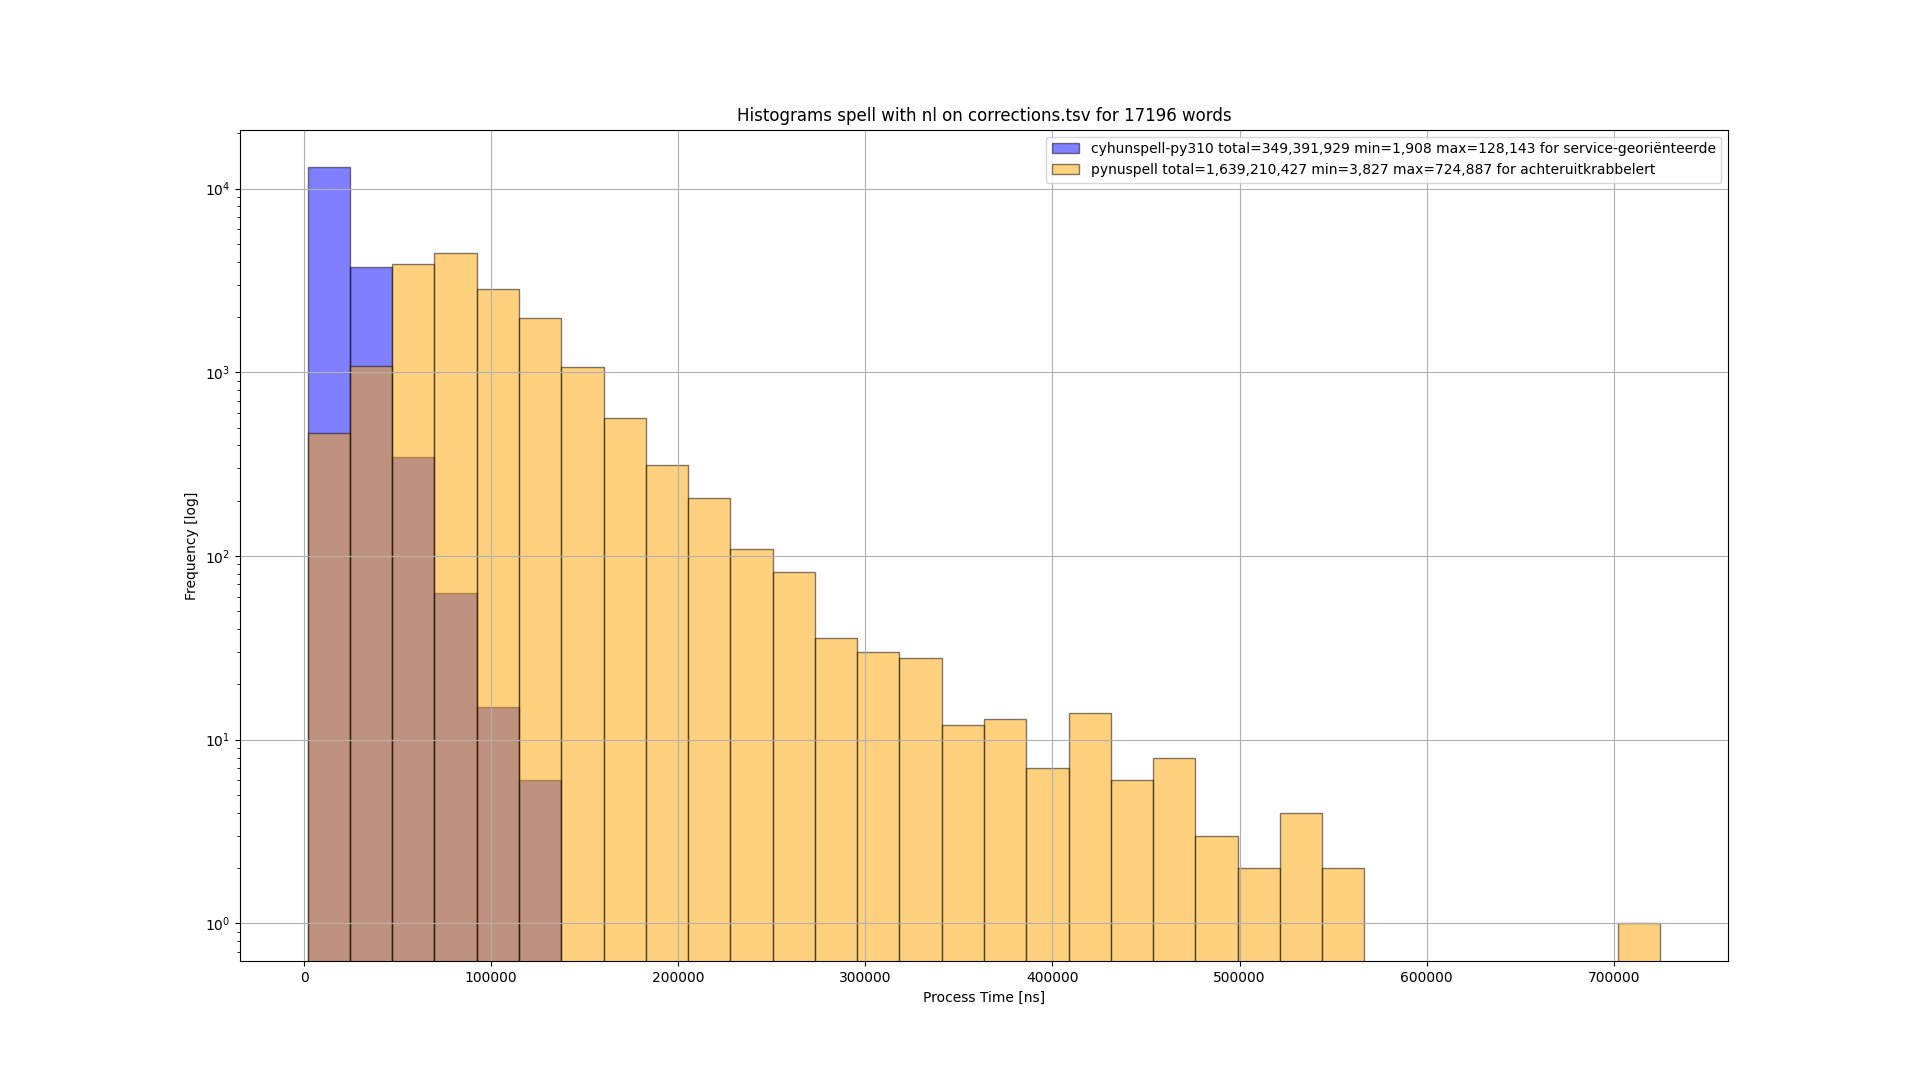
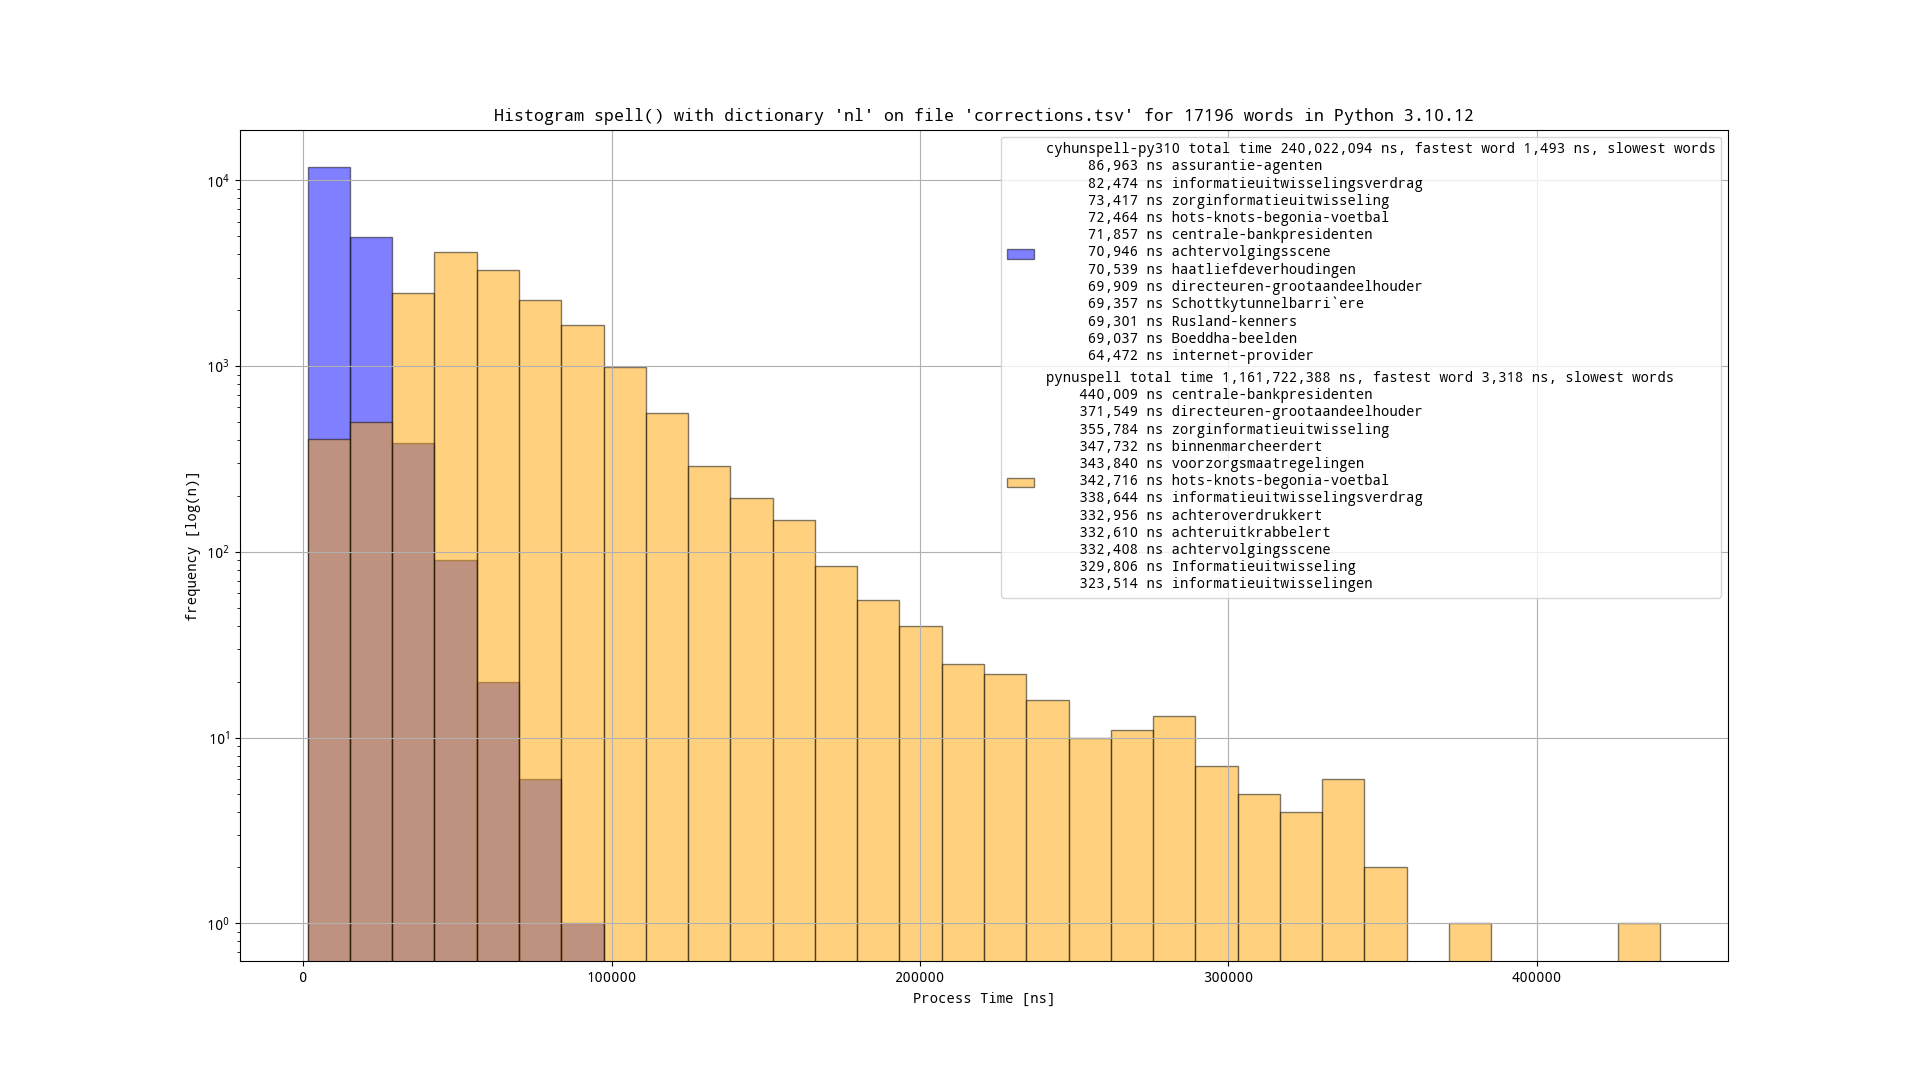
full run

diff --git a/compare.py b/compare.py
@@ -1,10 +1,14 @@
 #!/usr/bin/env python3
-"""Compare spelling checkers."""
+"""Compare spelling checker functionality and performance."""
 
+import heapq
+from platform import python_version
+import sys
 import time
 
 import pandas as pd
 import matplotlib.pyplot as plt
+from matplotlib.ticker import MaxNLocator
 
 from pynuspell import load_from_path
 from hunspell import Hunspell
@@ -12,11 +16,20 @@ from hunspell import Hunspell
 BASE_W: str = '/usr/share/dict/'
 BASE_H: str = '/usr/share/hunspell/'
 LISTS: dict = {
+    'de_DE_frami': 'ngerman',
     'en_US': 'american-english',
     'es_ES': 'spanish',
-    'de_DE': 'ngerman',
+    'fr': 'french',
     'nl': 'dutch',
 }
+plt.rcParams['font.family'] = 'monospace'
+plt.rcParams['font.monospace'] = 'Noto Mono'
+plt.rcParams['legend.loc'] = 'upper right'
+FIGSIZE = (19.20, 10.80)
+plt.figure(figsize=FIGSIZE)
+MAX_SUGGEST = 1000
+MAX_SUGGEST_NL = 1000
+TOPX = 12
 
 # pylint:disable=unspecified-encoding
 
@@ -30,43 +43,69 @@ def get_hunspell(code: str):
     """Get Hunspell."""
     if code == 'en_US':
         return Hunspell(code)
-    return Hunspell(code, hunspell_data_dir=BASE_H)  # TODO Create issue
+    return Hunspell(code, hunspell_data_dir=BASE_H)  # TODO Create issue.
 
 
 def histo(code: str, file: str, name_n: str, name_h: str, function: str,
           data: dict):
     """Plot histogram to PNG file."""
     df = pd.DataFrame({name_h: data['tim_h'], name_n: data['tim_n']})
-    plt.figure(figsize=(19.20, 10.80))
-    df.plot.hist(alpha=0.5, bins=32, edgecolor='black',
-                 color=['blue', 'orange'], figsize=(19.20, 10.80))
-    plt.title(f'Histograms {function} with {code} on {file} for'
-              f' {data["len_h"]} words')
-    if function == 'suggest':
-        plt.xlabel('Process Time [µs]')
+    ax = df.plot.hist(alpha=0.5, bins=32, edgecolor='black',
+                      color=['blue', 'orange'], figsize=FIGSIZE)
+    plt.title(f"Histogram {function} with dictionary '{code}' on file '{file}'"
+              f' for {data["len_h"]} words in Python {python_version()}')
+    if function == 'suggest()':
+        scale = ' µs'
+        plt.xlabel(f'processing time [{scale[1:]}]')
+    elif function == 'len(suggest())':
+        scale = ''
+        plt.xlabel('number of words [n]')
+        ax.xaxis.set_major_locator(MaxNLocator(integer=True))
     else:
-        plt.xlabel('Process Time [ns]')
-    plt.ylabel('Frequency [log]')
+        scale = ' ns'
+        plt.xlabel(f'Process Time [{scale[1:]}]')
+    plt.ylabel('frequency [log(n)]')
     plt.yscale('log')
     plt.grid(True)
-    leg_h = f'{name_h} total={int(data["tot_h"]):,d}' \
-            f' min={int(data["min_h"]):,d}' \
-            f' max={int(data["max_h"]):,d} for {data["slo_h"]}'
-    leg_n = f'{name_n} total={int(data["tot_n"]):,d}' \
-            f' min={int(data["min_n"]):,d}' \
-            f' max={int(data["max_n"]):,d} for {data["slo_n"]}'
-    plt.legend([leg_h, leg_n])
-    plt.savefig(f'{function}-{code}-{file.replace(".tsv", "")}.png')
+    if function == 'len(suggest())':
+        leg_h = f'{name_h} slowest words\n'
+        leg_n = f'{name_n} slowest words\n'
+    else:
+        leg_h = f'{name_h} total time {int(data["tot_h"]):,d}{scale},' \
+                f' fastest word {int(data["min_h"]):,d}{scale},' \
+                ' slowest words\n'
+        leg_n = f'{name_n} total time {int(data["tot_n"]):,d}{scale},' \
+                f' fastest word {int(data["min_n"]):,d}{scale},' \
+                ' slowest words\n'
+    for tim, word in sorted(data['hea_h'], reverse=True):
+        leg_h += f'{int(tim):>11,d}{scale} {word}\n'
+    leg_h = leg_h[:-1]
+    more = False
+    for tim, word in sorted(data['hea_n'], reverse=True):
+        if function == 'len(suggest())' and tim > 15:
+            leg_n += f'{int(tim):>11,d}{scale}*{word}\n'
+            more = True
+        else:
+            leg_n += f'{int(tim):>11,d}{scale} {word}\n'
+    if more:
+        leg_n += '* more than 15 suggestions in the result'
+    elif function == 'suggest()':
+        leg_n += '() the number of suggestions in the result'
+    else:
+        leg_n = leg_n[:-1]
+    plt.legend([leg_h, leg_n], alignment='left')
+    plt.savefig(f'{function.replace("(", "").replace(")", "")}-{code}'
+                f'-{file.replace(".tsv", "")}')
+    plt.close()
 
 
 def check(path, checker):
     """Check all words with spelling checker and get suggestions for fails."""
     res = {}
-    tim_spe = []
+    values_spelling = []
+    slowest_spelling = []
     with open(path) as file:
         incorrect = set()
-        max_spe = 0
-        slo_spe = ''
         cnt = 0
         for line in file:
             line = line.strip().split('\t')[0]
@@ -74,53 +113,63 @@ def check(path, checker):
                 start = time.process_time_ns()
                 tmp = checker.spell(line)
                 tim = time.process_time_ns() - start
-                if tim > max_spe:
-                    max_spe = tim
-                    slo_spe = line
-                tim_spe.append(tim)
+                values_spelling.append(tim)
+                heapq.heappush(slowest_spelling, (tim, line))
+                if len(slowest_spelling) > TOPX:
+                    heapq.heappop(slowest_spelling)
                 if not tmp:
                     incorrect.add(line)
             cnt += 1
             if cnt % 50000 == 0:
-                print(f'    spe {cnt:07d}')
+                print(f'    spell {cnt:07d}')
         if cnt % 50000:
-            print(f'    spe {cnt:07d}')
-    res['len_spe'] = len(tim_spe)
-    res['min_spe'] = min(tim_spe)
-    res['max_spe'] = max_spe
-    res['tot_spe'] = sum(tim_spe)
-    res['tim_spe'] = tim_spe
-    res['slo_spe'] = slo_spe
+            print(f'    spell {cnt:07d}')
+    res['len_spe'] = len(values_spelling)
+    res['min_spe'] = min(values_spelling)
+    res['tot_spe'] = sum(values_spelling)
+    res['values_spelling'] = values_spelling
+    res['hea_spe'] = slowest_spelling
 
-    tim_sug = []
-    max_sug = 0.0
-    slo_sug = ''
+    values_suggest = []
+    values_lensuggest = []
+    slowest_suggest = []
+    slowest_lensuggest = []
     cnt = 0
     for line in incorrect:
         start = time.process_time_ns()
-        checker.suggest(line)
+        tmp = checker.suggest(line)
+        lentmp = len(tmp)
         tim = float(time.process_time_ns() - start) / 1000  # microseconds
-        if tim > max_sug:
-            max_sug = tim
-            slo_sug = line
-        tim_sug.append(tim)
+        values_suggest.append(tim)
+        heapq.heappush(slowest_suggest, (tim, f'{line} ({lentmp})'))
+        if len(slowest_suggest) > TOPX:
+            heapq.heappop(slowest_suggest)
+        values_lensuggest.append(lentmp)
+        heapq.heappush(slowest_lensuggest, (lentmp, line))
+        if len(slowest_lensuggest) > TOPX:
+            heapq.heappop(slowest_lensuggest)
         cnt += 1
         if cnt % 50 == 0:
-            print(f'    sug {cnt:07d}')
+            print(f'    suggest {cnt:07d}')
         if path.endswith('dutch') or path.endswith('.tsv'):
-            if cnt == 150:
+            if cnt == MAX_SUGGEST_NL:
                 break
         else:
-            if cnt == 500:
+            if cnt == MAX_SUGGEST:
                 break
     if cnt % 50:
-        print(f'    sug {cnt:07d}')
-    res['len_sug'] = len(tim_sug)
-    res['min_sug'] = min(tim_sug)
-    res['max_sug'] = max(tim_sug)
-    res['tot_sug'] = sum(tim_sug)
-    res['tim_sug'] = tim_sug
-    res['slo_sug'] = slo_sug
+        print(f'    suggest {cnt:07d}')
+    res['len_sug'] = len(values_suggest)
+    res['min_sug'] = min(values_suggest)
+    res['tot_sug'] = sum(values_suggest)
+    res['tim_sug'] = values_suggest
+    res['hea_sug'] = slowest_suggest
+
+    res['len_cnt'] = len(values_lensuggest)
+    res['min_cnt'] = 0
+    res['tot_cnt'] = 0
+    res['tim_cnt'] = values_lensuggest
+    res['hea_cnt'] = slowest_lensuggest
 
     return res
 
@@ -141,35 +190,50 @@ def compare(code: str, file: str) -> None:
     spe = {}
     spe['len_h'] = res_h['len_spe']
     spe['min_h'] = res_h['min_spe']
-    spe['max_h'] = res_h['max_spe']
     spe['tot_h'] = res_h['tot_spe']
-    spe['tim_h'] = res_h['tim_spe']
-    spe['slo_h'] = res_h['slo_spe']
+    spe['tim_h'] = res_h['values_spelling']
+    spe['hea_h'] = res_h['hea_spe']
+
     spe['len_n'] = res_n['len_spe']
     spe['min_n'] = res_n['min_spe']
-    spe['max_n'] = res_n['max_spe']
     spe['tot_n'] = res_n['tot_spe']
-    spe['tim_n'] = res_n['tim_spe']
-    spe['slo_n'] = res_n['slo_spe']
-    histo(code, file, name_n, name_h, 'spell', spe)
+    spe['tim_n'] = res_n['values_spelling']
+    spe['hea_n'] = res_n['hea_spe']
+    histo(code, file, name_n, name_h, 'spell()', spe)
 
     sug = {}
     sug['len_h'] = res_h['len_sug']
     sug['min_h'] = res_h['min_sug']
-    sug['max_h'] = res_h['max_sug']
     sug['tot_h'] = res_h['tot_sug']
     sug['tim_h'] = res_h['tim_sug']
-    sug['slo_h'] = res_h['slo_sug']
+    sug['hea_h'] = res_h['hea_sug']
+
     sug['len_n'] = res_n['len_sug']
     sug['min_n'] = res_n['min_sug']
-    sug['max_n'] = res_n['max_sug']
     sug['tot_n'] = res_n['tot_sug']
     sug['tim_n'] = res_n['tim_sug']
-    sug['slo_n'] = res_n['slo_sug']
-    histo(code, file, name_n, name_h, 'suggest', sug)
+    sug['hea_n'] = res_n['hea_sug']
+    histo(code, file, name_n, name_h, 'suggest()', sug)
+
+    cnt = {}
+    cnt['len_h'] = res_h['len_cnt']
+    cnt['min_h'] = res_h['min_cnt']
+    cnt['tot_h'] = res_h['tot_cnt']
+    cnt['tim_h'] = res_h['tim_cnt']
+    cnt['hea_h'] = res_h['hea_cnt']
+
+    cnt['len_n'] = res_n['len_cnt']
+    cnt['min_n'] = res_n['min_cnt']
+    cnt['tot_n'] = res_n['tot_cnt']
+    cnt['tim_n'] = res_n['tim_cnt']
+    cnt['hea_n'] = res_n['hea_cnt']
+    histo(code, file, name_n, name_h, 'len(suggest())', cnt)
 
 
 if __name__ == '__main__':
+    if len(sys.argv) > 1:
+        MAX_SUGGEST = 100
+        MAX_SUGGEST_NL = 25
     for code, file in sorted(LISTS.items()):
         print(f'{code} {file}')
         compare(code, file)

diff --git a/README.md b/README.md
@@ -4,9 +4,9 @@ Comparing Python moduel for Nuspell with those for Hunspell
 
 ## Installation
 
-     sudo apt-get install libnuspell5 libhunspell-1.7 \
-     hunspell-en-us hunspell-es hunspell-de-de hunspell-nl \
-     wamerican wspanish wngerman wdutch
+     sudo apt-get install libnuspell5 libhunspell-1.7 hunspell-en-us \
+     hunspell-es hunspell-de-de-frami hunspell-fr-comprehensive hunspell-nl \
+     wamerican wspanish wngerman wfrench wdutch
      pip install -U pandas matplotlib pynuspell cyhunspell-py310
 
 ## Running
@@ -19,21 +19,32 @@ and the results are in PNG files. Note the break to limit total test time for su
 
 ## Results
 
-Spell
+`spell()`
 
 [![](spell-en_US-american-english.png)](spell-en_US-american-english.png)
 [![](spell-es_ES-spanish.png)](spell-es_ES-spanish.png)
-[![](spell-de_DE-ngerman.png)](spell-de_DE-ngerman.png)
+[![](spell-de_DE_frami-ngerman.png)](spell-de_DE_frami-ngerman.png)
+[![](spell-fr-french.png)](spell-fr-french.png)
 [![](spell-nl-dutch.png)](spell-nl-dutch.png)
 [![](spell-nl-corrections.png)](spell-nl-corrections.png)
 
-Suggest
+`suggest()`
 
 [![](suggest-en_US-american-english.png)](suggest-en_US-american-english.png)
 [![](suggest-es_ES-spanish.png)](suggest-es_ES-spanish.png)
-[![](suggest-de_DE-ngerman.png)](suggest-de_DE-ngerman.png)
+[![](suggest-de_DE_frami-ngerman.png)](suggest-de_DE_frami-ngerman.png)
+[![](suggest-fr-french.png)](suggest-fr-french.png)
 [![](suggest-nl-dutch.png)](suggest-nl-dutch.png)
 [![](suggest-nl-corrections.png)](suggest-nl-corrections.png)
+
+`len(suggest())`
+
+[![](lensuggest-en_US-american-english.png)](lensuggest-en_US-american-english.png)
+[![](lensuggest-es_ES-spanish.png)](lensuggest-es_ES-spanish.png)
+[![](lensuggest-de_DE_frami-ngerman.png)](lensuggest-de_DE_frami-ngerman.png)
+[![](lensuggest-fr-french.png)](lensuggest-fr-french.png)
+[![](lensuggest-nl-dutch.png)](lensuggest-nl-dutch.png)
+[![](lensuggest-nl-corrections.png)](lensuggest-nl-corrections.png)
 
 ## See also
 
